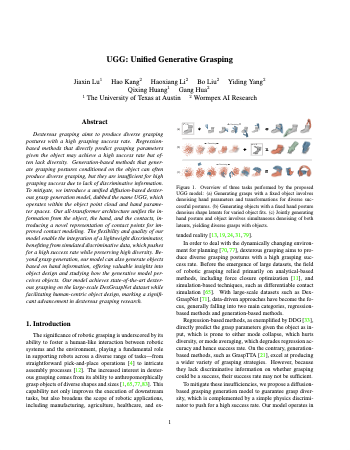
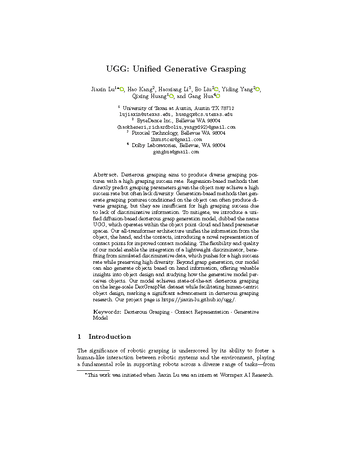
update page

Changed region(s): [[0.0571, 0.1244, 0.9143, 0.9022]]

diff --git a/index.html b/index.html
@@ -50,7 +50,7 @@
                 UGG: Unified Generative Grasping
                 </br>
                 <small>
-                    arxiv preprint
+                    ECCV 2024
                 </small>
             </h2>
         </div>
@@ -64,21 +64,27 @@
 						<sup>1</sup>
                     </li>
                     <li>
+                        <a href="https://scholar.google.com/citations?user=VeTCSyEAAAAJ&hl=en">
                             <strong> Hao Kang </strong>
+                        </a>
                             <sup>2</sup>
                     </li>
                     <li>
-                        <a href="https://blog.haoxiang.org/haoxiang.html">
+                        <a href="https://resume.haoxiang.org/">
                             <strong> Haoxiang Li </strong>
                         </a>
-                        <sup>2</sup>
+                        <sup>3</sup>
                     </li>
                     <li>
+                        <a href="https://scholar.google.com/citations?user=NOgz-HsAAAAJ&hl=en">
                             <strong> Bo Liu </strong>
+                        </a>
                             <sup>2</sup>
                     </li>
                     <li>
+                        <a href="https://ihollywhy.github.io/">
                             <strong> Yiding Yang </strong>
+                        </a>
                             <sup>2</sup>
                     </li>
                     <li>
@@ -92,14 +98,20 @@
                         <a href="https://www.ganghua.org/">
                             <strong> Gang Hua </strong>
                         </a>
-			    <sup>2</sup>
+			    <sup>4</sup>
                     </li><br>
 					<sup>1</sup>
-                    The University of Texas at Austin
+                    University of Texas at Austin
 
                  &nbsp;&nbsp;&nbsp;&nbsp;
                     <sup>2</sup>
-                    Wormpex AI Research
+                    ByteDance Inc
+                &nbsp;&nbsp;&nbsp;&nbsp;
+                    <sup>3</sup>
+                    Pixocial Technology
+                &nbsp;&nbsp;&nbsp;&nbsp;
+                    <sup>4</sup>
+                    Dolby Laboratories
 
 					</ul>
             </div>
@@ -115,12 +127,12 @@
                                 <h4><strong>Paper</strong></h4>
                             </a>
                         </li>
-						<!-- <li>
-                            <a href="">
+						<li>
+                            <a href="https://github.com/Jiaxin-Lu/ugg">
                             <image src="img/github.png" height="60px">
                                 <h4><strong>Code</strong></h4>
                             </a>
-                        </li> -->
+                        </li>
 
                     </ul>
                 </div>
